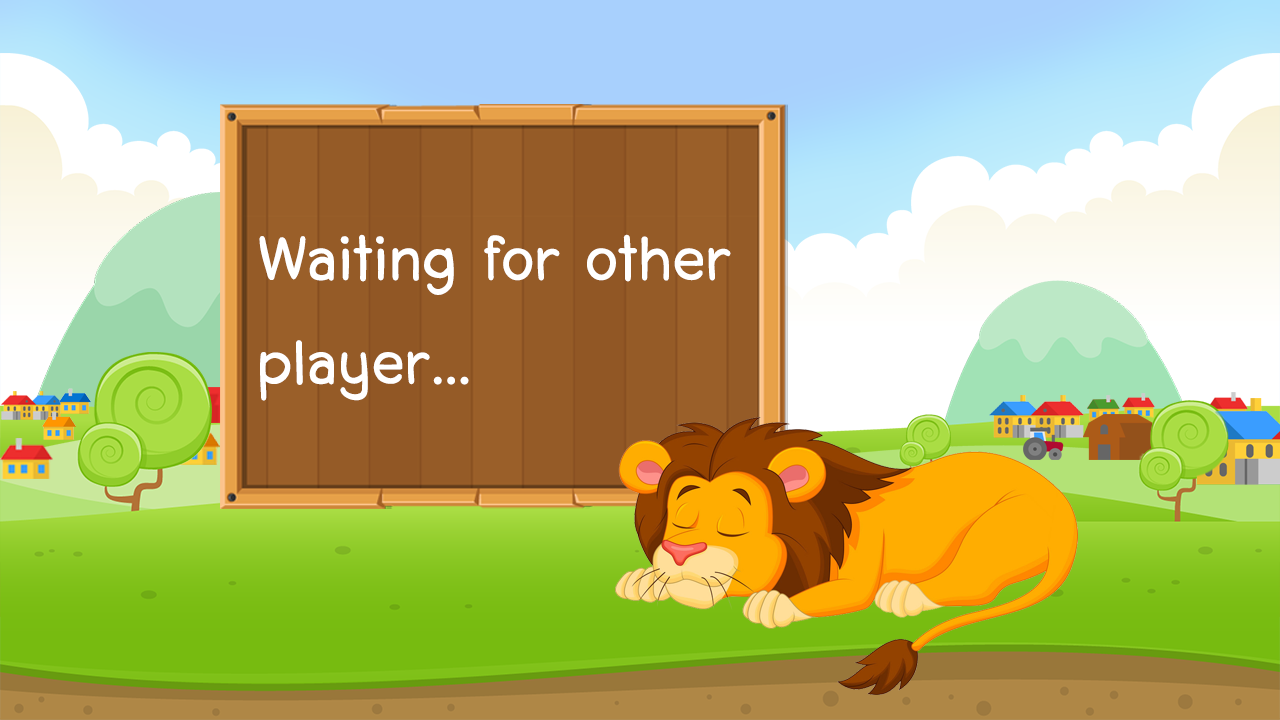
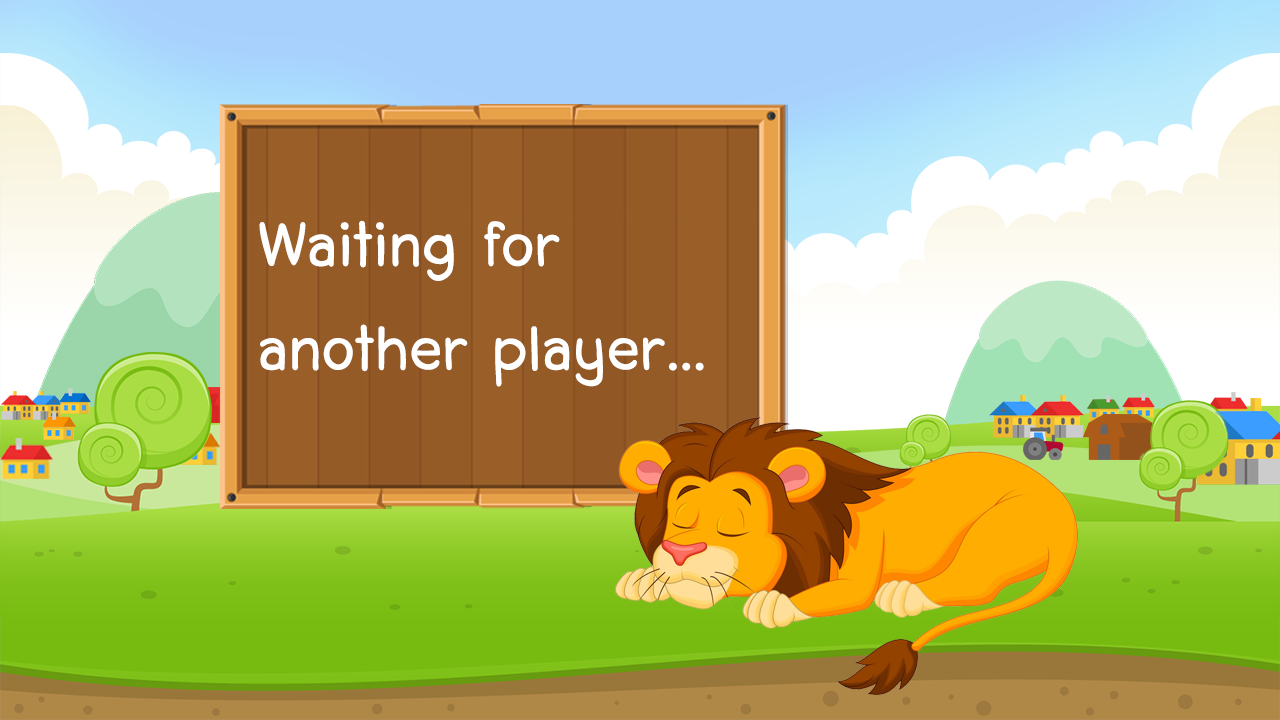
waitingUI

Changed region(s): [[0.1875, 0.3056, 0.5625, 0.3972], [0.1875, 0.4583, 0.5625, 0.55]]

diff --git a/src/gameUI/test.java b/src/gameUI/test.java
@@ -17,7 +17,7 @@ public class test extends Application{
 	public void start(Stage primaryStage) {
 		Parent root;
 		try {
-			root = FXMLLoader.load(getClass().getResource("indexUI.fxml"));
+			root = FXMLLoader.load(getClass().getResource("waitingUI.fxml"));
 			Scene scene = new Scene(root);
 			primaryStage.setScene(scene);
 			primaryStage.setTitle("test");
